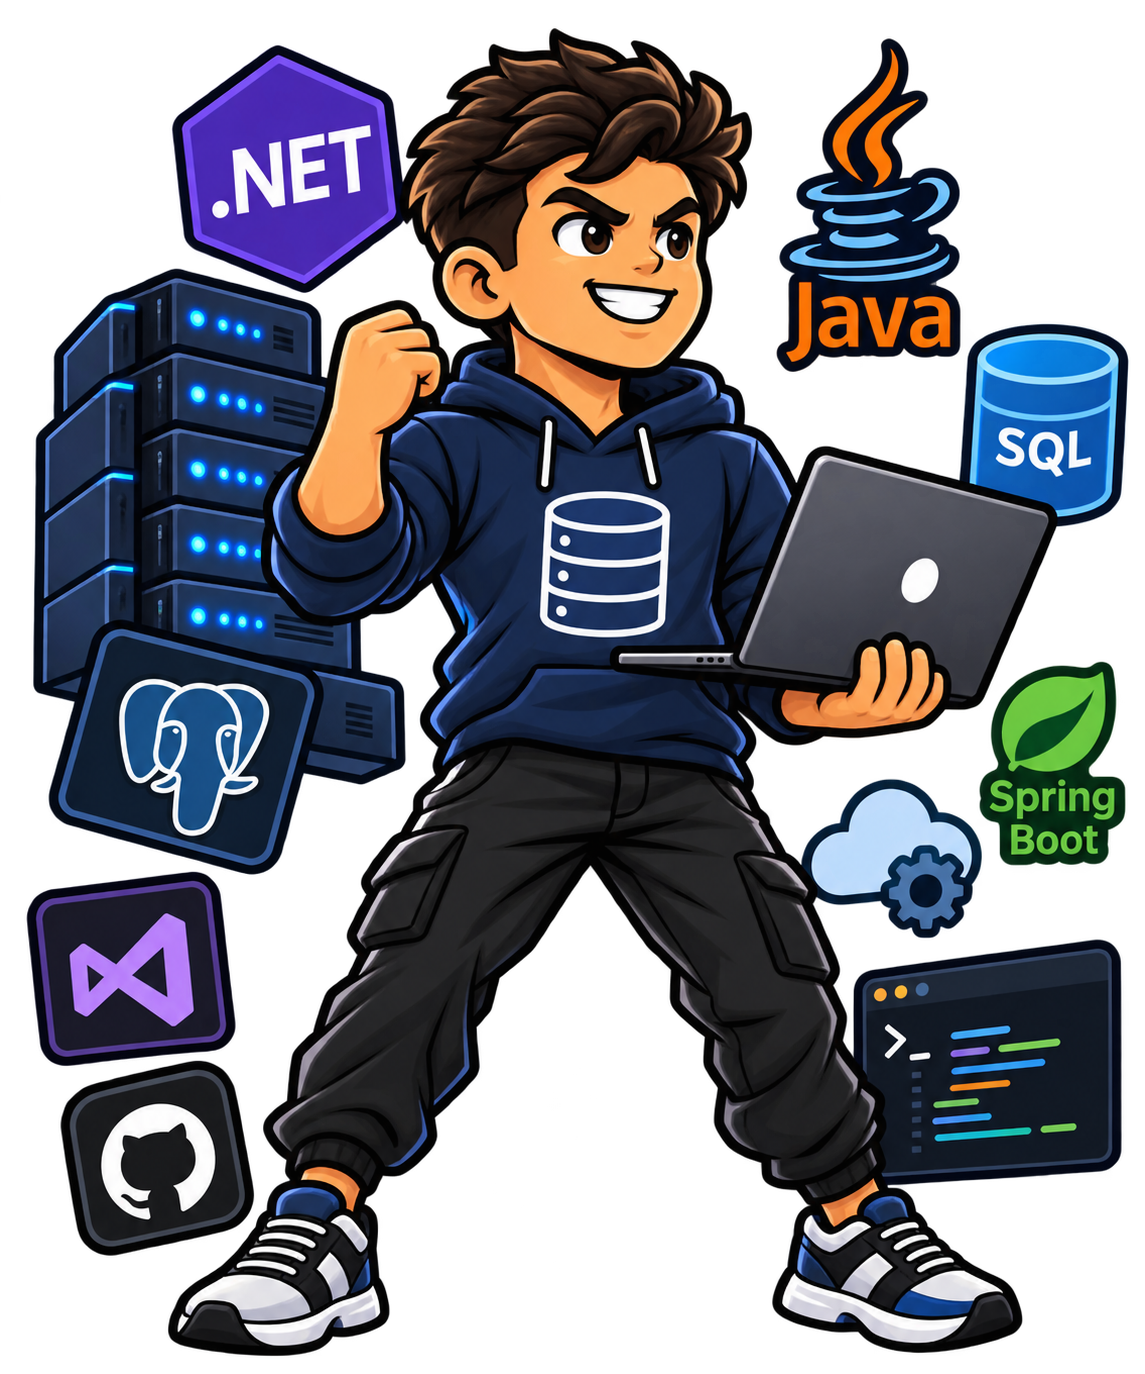
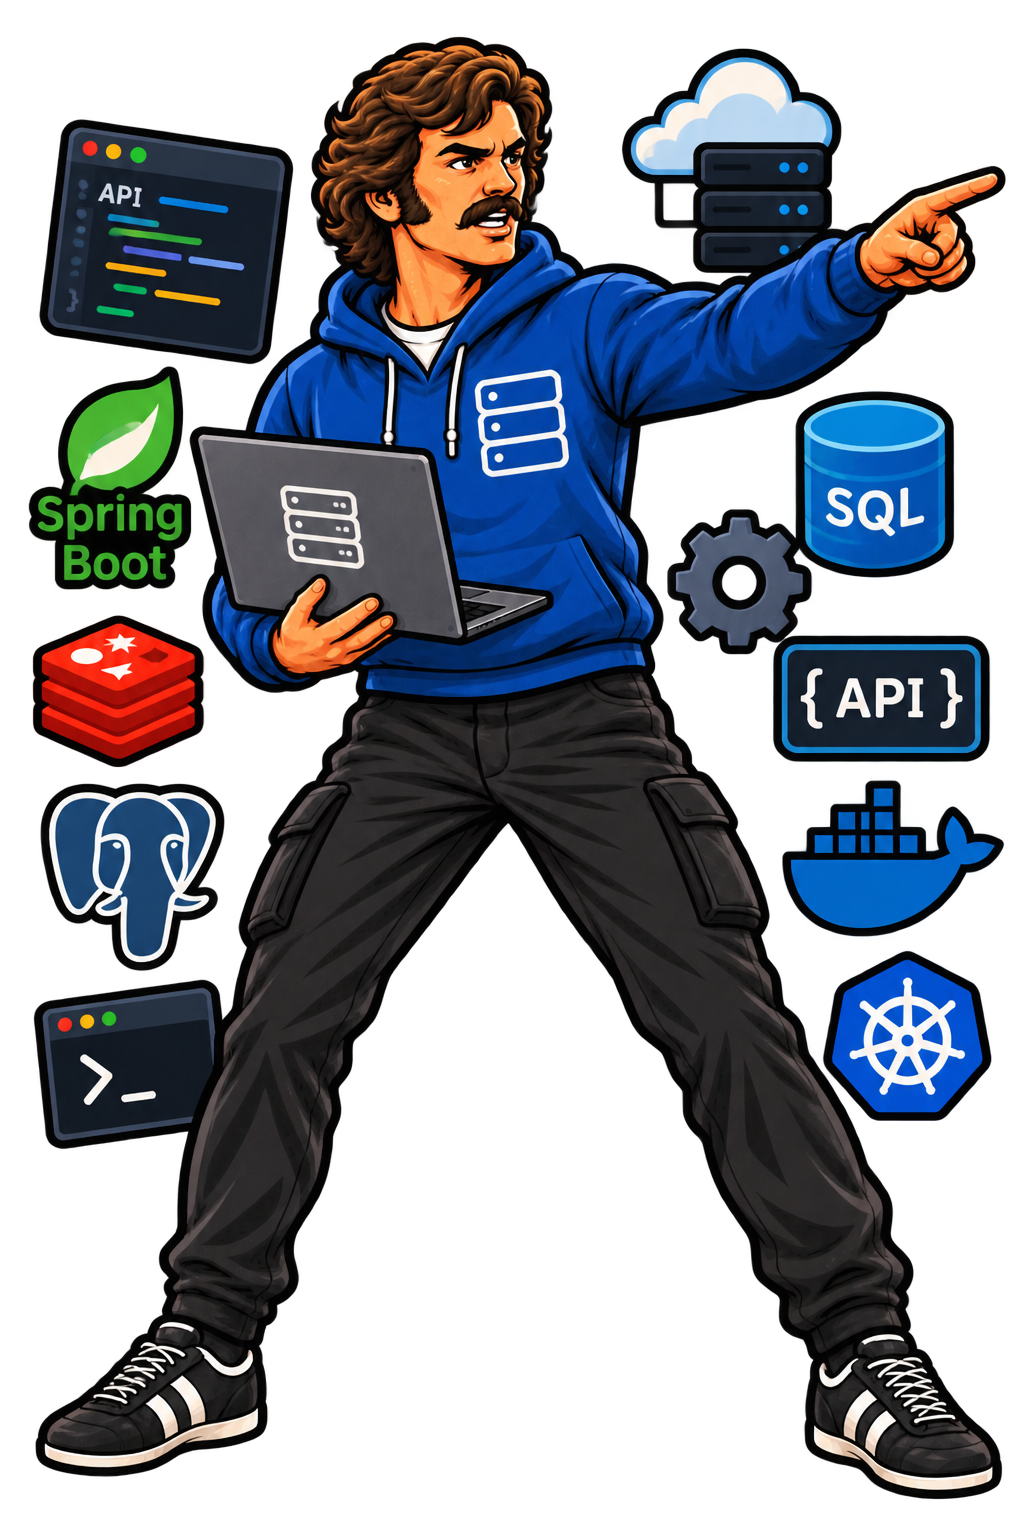
New QA, backend and frontend figures
Claude-Session: https://claude.ai/code/session_01SJFgZ3ntddE1JVA3buEB2q

diff --git a/talk/index.html b/talk/index.html
@@ -398,9 +398,9 @@
     <div class="place stamp" data-obj="stamp5" style="left: 3900px; top: 1760px;">Does not exist</div>
     <div id="engs" class="place" style="left: 0; top: 0; width: 0; height: 0; overflow: visible;">
     <img class="place figure" data-obj="eng1" src="img/dev-devops.png?v=2" alt="" style="left: 1846px; top: 1612px; width: 540px;">
-    <img class="place figure" data-obj="eng2" src="img/dev-qa.png" alt="" style="left: 2770px; top: 1612px; width: 540px;">
-    <img class="place figure" data-obj="eng3" src="img/dev-be.png" alt="" style="left: 3692px; top: 1612px; width: 540px;">
-    <img class="place figure" data-obj="eng4" src="img/dev-fe.png" alt="" style="left: 4616px; top: 1612px; width: 540px;">
+    <img class="place figure" data-obj="eng2" src="img/dev-qa.png?v=2" alt="" style="left: 2770px; top: 1612px; width: 540px;">
+    <img class="place figure" data-obj="eng3" src="img/dev-be.png?v=2" alt="" style="left: 3692px; top: 1612px; width: 540px;">
+    <img class="place figure" data-obj="eng4" src="img/dev-fe.png?v=2" alt="" style="left: 4616px; top: 1612px; width: 540px;">
     </div>
     <div class="place minicard" data-obj="mini1" style="left: 1756px; top: 2192px; width: 720px; transform: rotate(-1.5deg);">
       <div class="ai-badge">AI assisted</div>
